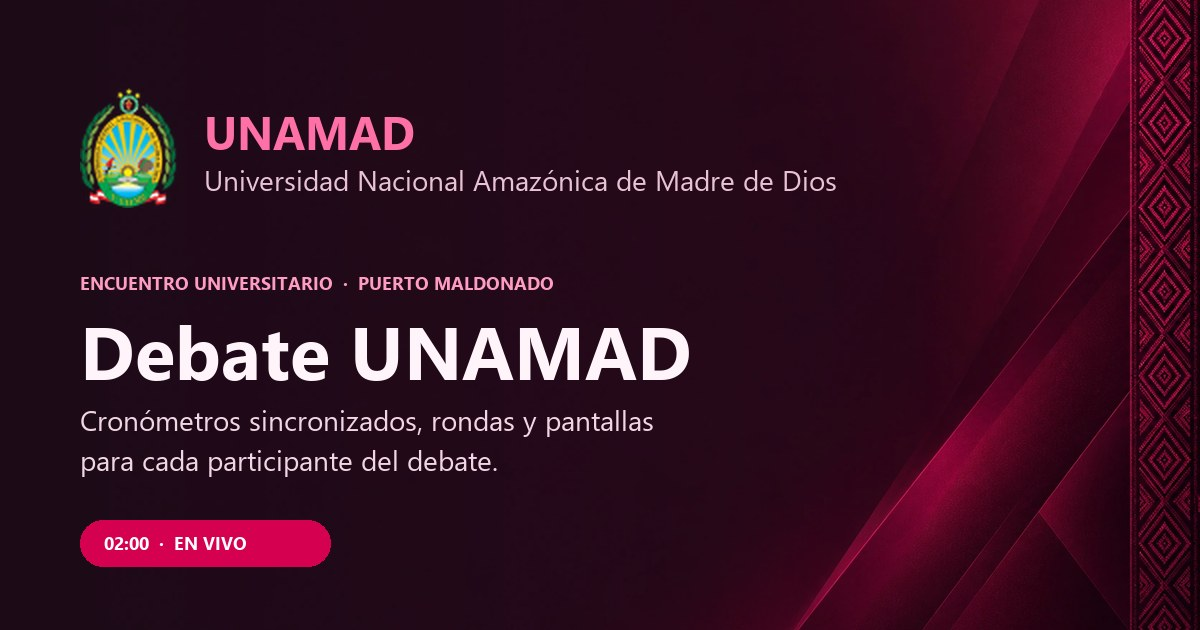
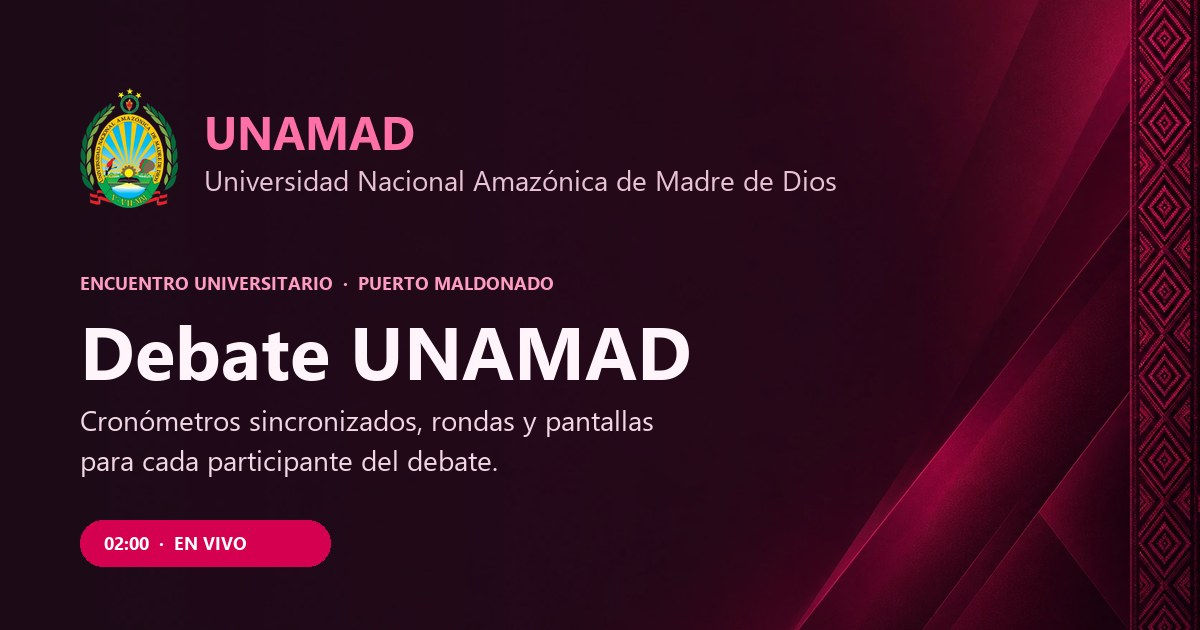
Escudo de la UNAMAD en alta resolución
- Nuevo logo_unamad.png (500 px) recortado y optimizado como logo-unamad.webp (74 KB).
- Se usa en los fondos de espera (más grande), tótems, panel, vista general,
  pantalla del público e imagen para compartir.

Changed region(s): [[0.0617, 0.1508, 0.1542, 0.3317]]

diff --git a/public/app.js b/public/app.js
@@ -751,7 +751,7 @@ function renderRounds() {
 }
 function renderPanel() {
   $("app").innerHTML =
-    `<header><div class="brand"><div class="official-logo-plate"><img src="assets/unamad-logo-oficial.png" alt="UNAMAD · Universidad Nacional Amazónica de Madre de Dios" width="262" height="70"></div><div class="brand-separator"></div><div class="brand-program">DEBATE UNAMAD<span>CENTRAL DE MODERACIÓN</span></div></div><div class="header-right"><div class="pill"><span class="dot"></span> Panel del moderador</div><span class="header-clock" id="clock"></span><button class="panel-theme" id="panel-theme" title="Cambiar apariencia del panel">☾ Oscuro</button><button class="header-help" id="help-top">ⓘ &nbsp; Cómo conectar</button></div></header><main><div id="owner-warning" class="owner-warning" hidden><span id="owner-warning-text"></span><button id="take-control" class="secondary">Reintentar</button></div><section class="institutional-hero"><div class="institutional-hero-copy"><span class="hero-eyebrow"><i></i> ENCUENTRO UNIVERSITARIO</span><h1 id="event-title"></h1><p>Ideas para el futuro de nuestra universidad.</p><div class="hero-tags"><span id="hero-count"></span><span id="hero-mode"></span></div></div><div class="institutional-hero-visual"><div class="hero-identity"><img class="hero-crest" src="assets/unamad-escudo-oficial.png" alt="Escudo de la UNAMAD"><div class="hero-wordmark">UNAMAD<span>Universidad Nacional Amazónica<br>de Madre de Dios</span></div></div><div class="hero-identity-line"></div><span class="hero-location">PUERTO MALDONADO · MADRE DE DIOS</span></div></section><div class="workspace-heading"><div><span class="eyebrow">DIRECCIÓN DEL DEBATE</span><h2>Panel de moderación</h2></div><button class="secondary" id="settings-btn"><span aria-hidden="true">⚙</span> Configurar debate</button></div><div class="cloud-tools"><span class="cloud-state" id="cloud-status">Conectado al debate</span><button class="secondary" id="open-report">Informe de tiempos</button><button class="secondary" id="open-standby">Fondo de espera</button><button class="secondary" id="share-links">Enlaces de tótems</button><button class="secondary" id="logout">Cerrar sesión</button></div><section class="stage-bar" id="stage-bar" hidden aria-label="Pantalla única"><div class="stage-now"><span class="eyebrow">EN PANTALLA</span><strong id="stage-name"></strong><span id="stage-status"></span></div><div class="stage-time" id="stage-time"></div><div class="stage-actions"><button class="primary stage-play" id="stage-play">▶ &nbsp; Iniciar</button><button class="secondary" id="stage-next" title="Presenta e inicia al siguiente candidato (tecla →)">Siguiente &nbsp;⏭</button></div><div class="stage-pick"><span class="toolbar-label">Presentar</span><div class="stage-chips" id="stage-chips"></div><span class="stage-screens" id="stage-screens"></span></div></section><section class="round-bar" aria-label="Rondas del debate"><span class="toolbar-label">Ronda</span><div class="round-chips" id="round-chips"></div><div class="round-actions"><button class="secondary" id="next-round">Siguiente ronda &nbsp;→</button><button class="subtle" id="edit-rounds">Editar rondas</button></div></section><section class="toolbar" aria-label="Controles generales"><div class="toolbar-group"><span class="toolbar-label">Tiempo por intervención</span><div class="presets"><button class="preset" data-preset="60">1 min</button><button class="preset" data-preset="120">2 min</button><button class="preset" data-preset="180">3 min</button><button class="preset" id="custom-time">Personalizar</button></div><span class="divider"></span><label class="sound-label"><input id="sound" type="checkbox"> Aviso sonoro</label></div><div class="toolbar-group"><button class="primary" id="next-speaker" title="Pausa el turno actual e inicia el siguiente (tecla →)">Siguiente orador &nbsp;⏭</button><button class="secondary" id="pause-all">Ⅱ &nbsp; Pausar todos</button><button class="subtle" id="reset-all" title="Reiniciar todos los cronómetros">↺ &nbsp; Reiniciar</button></div></section><div class="status-line"><strong>Participantes <span class="muted-count" id="participant-count"></span></strong><span id="live-status">● &nbsp; Listos para comenzar</span></div><section class="cards" id="cards" aria-label="Cronómetros de los candidatos"></section><section class="bottom-row"><div class="guide-card"><div class="guide-symbol" aria-hidden="true">▣</div><div><h3>Identidad UNAMAD en cada tótem</h3><p>Añade la foto o el flyer de cada candidato y revisa su pantalla antes de proyectar. Para el proyector, usa la vista general.</p><button class="text-btn" id="help-bottom">Ver guía de conexión &nbsp; →</button></div></div><div class="shortcuts"><h3>El control, al alcance de tu teclado</h3><div class="shortcut-row"><span><kbd>1</kbd>…<kbd>8</kbd> Iniciar / pausar candidato</span><span><kbd>Espacio</kbd> Pausar / continuar</span><span><kbd>→</kbd> Siguiente orador</span></div></div></section><footer class="footer"><span><strong>● Un turno activo a la vez.</strong> Al cambiar de candidato, el anterior queda en pausa.</span><span id="footer-note">UNAMAD · Tótems en equipos independientes</span></footer></main>`;
+    `<header><div class="brand"><div class="official-logo-plate"><img src="assets/unamad-logo-oficial.png" alt="UNAMAD · Universidad Nacional Amazónica de Madre de Dios" width="262" height="70"></div><div class="brand-separator"></div><div class="brand-program">DEBATE UNAMAD<span>CENTRAL DE MODERACIÓN</span></div></div><div class="header-right"><div class="pill"><span class="dot"></span> Panel del moderador</div><span class="header-clock" id="clock"></span><button class="panel-theme" id="panel-theme" title="Cambiar apariencia del panel">☾ Oscuro</button><button class="header-help" id="help-top">ⓘ &nbsp; Cómo conectar</button></div></header><main><div id="owner-warning" class="owner-warning" hidden><span id="owner-warning-text"></span><button id="take-control" class="secondary">Reintentar</button></div><section class="institutional-hero"><div class="institutional-hero-copy"><span class="hero-eyebrow"><i></i> ENCUENTRO UNIVERSITARIO</span><h1 id="event-title"></h1><p>Ideas para el futuro de nuestra universidad.</p><div class="hero-tags"><span id="hero-count"></span><span id="hero-mode"></span></div></div><div class="institutional-hero-visual"><div class="hero-identity"><img class="hero-crest" src="assets/logo-unamad.webp" alt="Escudo de la UNAMAD"><div class="hero-wordmark">UNAMAD<span>Universidad Nacional Amazónica<br>de Madre de Dios</span></div></div><div class="hero-identity-line"></div><span class="hero-location">PUERTO MALDONADO · MADRE DE DIOS</span></div></section><div class="workspace-heading"><div><span class="eyebrow">DIRECCIÓN DEL DEBATE</span><h2>Panel de moderación</h2></div><button class="secondary" id="settings-btn"><span aria-hidden="true">⚙</span> Configurar debate</button></div><div class="cloud-tools"><span class="cloud-state" id="cloud-status">Conectado al debate</span><button class="secondary" id="open-report">Informe de tiempos</button><button class="secondary" id="open-standby">Fondo de espera</button><button class="secondary" id="share-links">Enlaces de tótems</button><button class="secondary" id="logout">Cerrar sesión</button></div><section class="stage-bar" id="stage-bar" hidden aria-label="Pantalla única"><div class="stage-now"><span class="eyebrow">EN PANTALLA</span><strong id="stage-name"></strong><span id="stage-status"></span></div><div class="stage-time" id="stage-time"></div><div class="stage-actions"><button class="primary stage-play" id="stage-play">▶ &nbsp; Iniciar</button><button class="secondary" id="stage-next" title="Presenta e inicia al siguiente candidato (tecla →)">Siguiente &nbsp;⏭</button></div><div class="stage-pick"><span class="toolbar-label">Presentar</span><div class="stage-chips" id="stage-chips"></div><span class="stage-screens" id="stage-screens"></span></div></section><section class="round-bar" aria-label="Rondas del debate"><span class="toolbar-label">Ronda</span><div class="round-chips" id="round-chips"></div><div class="round-actions"><button class="secondary" id="next-round">Siguiente ronda &nbsp;→</button><button class="subtle" id="edit-rounds">Editar rondas</button></div></section><section class="toolbar" aria-label="Controles generales"><div class="toolbar-group"><span class="toolbar-label">Tiempo por intervención</span><div class="presets"><button class="preset" data-preset="60">1 min</button><button class="preset" data-preset="120">2 min</button><button class="preset" data-preset="180">3 min</button><button class="preset" id="custom-time">Personalizar</button></div><span class="divider"></span><label class="sound-label"><input id="sound" type="checkbox"> Aviso sonoro</label></div><div class="toolbar-group"><button class="primary" id="next-speaker" title="Pausa el turno actual e inicia el siguiente (tecla →)">Siguiente orador &nbsp;⏭</button><button class="secondary" id="pause-all">Ⅱ &nbsp; Pausar todos</button><button class="subtle" id="reset-all" title="Reiniciar todos los cronómetros">↺ &nbsp; Reiniciar</button></div></section><div class="status-line"><strong>Participantes <span class="muted-count" id="participant-count"></span></strong><span id="live-status">● &nbsp; Listos para comenzar</span></div><section class="cards" id="cards" aria-label="Cronómetros de los candidatos"></section><section class="bottom-row"><div class="guide-card"><div class="guide-symbol" aria-hidden="true">▣</div><div><h3>Identidad UNAMAD en cada tótem</h3><p>Añade la foto o el flyer de cada candidato y revisa su pantalla antes de proyectar. Para el proyector, usa la vista general.</p><button class="text-btn" id="help-bottom">Ver guía de conexión &nbsp; →</button></div></div><div class="shortcuts"><h3>El control, al alcance de tu teclado</h3><div class="shortcut-row"><span><kbd>1</kbd>…<kbd>8</kbd> Iniciar / pausar candidato</span><span><kbd>Espacio</kbd> Pausar / continuar</span><span><kbd>→</kbd> Siguiente orador</span></div></div></section><footer class="footer"><span><strong>● Un turno activo a la vez.</strong> Al cambiar de candidato, el anterior queda en pausa.</span><span id="footer-note">UNAMAD · Tótems en equipos independientes</span></footer></main>`;
   $("share-links").onclick = showLinks;
   $("open-report").onclick = openReport;
   $("open-standby").onclick = openStandby;
@@ -846,7 +846,7 @@ function renderDisplay() {
   }
   document.title = "Tótem " + displayId + " — Debate UNAMAD";
   $("app").innerHTML =
-    `<section class="signage-screen" id="projection">${Totem.stageHTML()}<div class="standby-screen" id="standby" hidden><img class="standby-image" id="standby-image" alt="" hidden><div class="standby-default"><img class="standby-crest" src="assets/unamad-escudo-oficial.png" alt="Escudo de la UNAMAD"></div></div><div class="unassigned-note" id="unassigned" hidden><img src="assets/unamad-escudo-oficial.png" alt=""><strong>Tótem ${displayId}</strong><span>Sin candidato asignado</span><small>El moderador puede agregarlo en «Configurar debate».</small></div>${screenTools}</section>`;
+    `<section class="signage-screen" id="projection">${Totem.stageHTML()}<div class="standby-screen" id="standby" hidden><img class="standby-image" id="standby-image" alt="" hidden><div class="standby-default"><img class="standby-crest" src="assets/logo-unamad.webp" alt="Escudo de la UNAMAD"></div></div><div class="unassigned-note" id="unassigned" hidden><img src="assets/logo-unamad.webp" alt=""><strong>Tótem ${displayId}</strong><span>Sin candidato asignado</span><small>El moderador puede agregarlo en «Configurar debate».</small></div>${screenTools}</section>`;
   setupScreen($("projection"));
 }
 function renderOverview() {
@@ -856,24 +856,24 @@ function renderOverview() {
       el.classList.add("overview-transparent");
   document.title = "Vista general — Debate UNAMAD";
   $("app").innerHTML =
-    `<section class="overview-screen" id="overview"><div class="overview-head"><div class="overview-brand"><img src="assets/unamad-escudo-oficial.png" alt="Escudo de la UNAMAD"><div><strong id="ov-event"></strong><span>Universidad Nacional Amazónica de Madre de Dios</span></div></div><div class="overview-round"><span>RONDA</span><strong id="ov-round"></strong></div></div><div class="overview-speaker" id="ov-speaker"><div class="ov-speaker-info"><span class="ov-kicker" id="ov-kicker"></span><h1 id="ov-name"></h1><p id="ov-role"></p></div><div class="ov-speaker-clock"><div class="ov-time" id="ov-time"></div><div class="ov-track"><div id="ov-progress"></div></div></div></div><div class="overview-grid" id="ov-grid"></div>${screenTools}</section>`;
+    `<section class="overview-screen" id="overview"><div class="overview-head"><div class="overview-brand"><img src="assets/logo-unamad.webp" alt="Escudo de la UNAMAD"><div><strong id="ov-event"></strong><span>Universidad Nacional Amazónica de Madre de Dios</span></div></div><div class="overview-round"><span>RONDA</span><strong id="ov-round"></strong></div></div><div class="overview-speaker" id="ov-speaker"><div class="ov-speaker-info"><span class="ov-kicker" id="ov-kicker"></span><h1 id="ov-name"></h1><p id="ov-role"></p></div><div class="ov-speaker-clock"><div class="ov-time" id="ov-time"></div><div class="ov-track"><div id="ov-progress"></div></div></div></div><div class="overview-grid" id="ov-grid"></div>${screenTools}</section>`;
   renderOverviewGrid();
   setupScreen($("overview"));
 }
 const brandHead = (prefix) =>
-  `<div class="overview-head"><div class="overview-brand"><img src="assets/unamad-escudo-oficial.png" alt="Escudo de la UNAMAD"><div><strong id="${prefix}-event"></strong><span>Universidad Nacional Amazónica de Madre de Dios</span></div></div><div class="overview-round"><span>RONDA</span><strong id="${prefix}-round"></strong></div></div>`;
+  `<div class="overview-head"><div class="overview-brand"><img src="assets/logo-unamad.webp" alt="Escudo de la UNAMAD"><div><strong id="${prefix}-event"></strong><span>Universidad Nacional Amazónica de Madre de Dios</span></div></div><div class="overview-round"><span>RONDA</span><strong id="${prefix}-round"></strong></div></div>`;
 function renderPublic() {
   document.body.classList.add("display-body", "overview-body");
   document.title = "Pantalla del público — Debate UNAMAD";
   $("app").innerHTML =
-    `<section class="public-screen" id="public">${brandHead("pub")}<div class="public-body" id="pub-body"><div class="public-photo" id="pub-photo"><img id="pub-image" alt="" hidden><div class="public-placeholder"><svg viewBox="0 0 160 190" fill="none" aria-hidden="true"><circle cx="80" cy="57" r="32" fill="currentColor"/><path d="M15 182v-17a65 65 0 0 1 130 0v17" fill="currentColor"/></svg></div></div><div class="public-info"><span class="public-label" id="pub-label"></span><h1 id="pub-name"></h1><p id="pub-role"></p><div class="public-clock"><span class="public-caption" id="pub-caption"></span><div class="public-time" id="pub-time"></div><div class="public-status"><i></i><span id="pub-status"></span></div><div class="ov-track"><div id="pub-progress"></div></div></div></div></div><div class="public-empty" id="pub-empty" hidden><img class="public-empty-crest" src="assets/unamad-escudo-oficial.png" alt="Escudo de la UNAMAD"></div><img class="public-standby-image" id="pub-standby-image" alt="" hidden>${screenTools}</section>`;
+    `<section class="public-screen" id="public">${brandHead("pub")}<div class="public-body" id="pub-body"><div class="public-photo" id="pub-photo"><img id="pub-image" alt="" hidden><div class="public-placeholder"><svg viewBox="0 0 160 190" fill="none" aria-hidden="true"><circle cx="80" cy="57" r="32" fill="currentColor"/><path d="M15 182v-17a65 65 0 0 1 130 0v17" fill="currentColor"/></svg></div></div><div class="public-info"><span class="public-label" id="pub-label"></span><h1 id="pub-name"></h1><p id="pub-role"></p><div class="public-clock"><span class="public-caption" id="pub-caption"></span><div class="public-time" id="pub-time"></div><div class="public-status"><i></i><span id="pub-status"></span></div><div class="ov-track"><div id="pub-progress"></div></div></div></div></div><div class="public-empty" id="pub-empty" hidden><img class="public-empty-crest" src="assets/logo-unamad.webp" alt="Escudo de la UNAMAD"></div><img class="public-standby-image" id="pub-standby-image" alt="" hidden>${screenTools}</section>`;
   setupScreen($("public"));
 }
 function renderSpeaker() {
   document.body.classList.add("display-body", "speaker-body");
   document.title = "Pantalla de los candidatos — Debate UNAMAD";
   $("app").innerHTML =
-    `<section class="speaker-screen" id="speaker"><div class="speaker-top"><span id="spk-round"></span><span id="spk-event"></span></div><div class="speaker-main"><h1 id="spk-name"></h1><div class="speaker-time" id="spk-time"></div><div class="speaker-status" id="spk-status"></div></div><div class="speaker-track"><div id="spk-progress"></div></div><div class="speaker-standby" id="spk-standby" hidden><img class="speaker-standby-crest" src="assets/unamad-escudo-oficial.png" alt="Escudo de la UNAMAD"><img class="speaker-standby-image" id="spk-standby-image" alt="" hidden></div>${screenTools}</section>`;
+    `<section class="speaker-screen" id="speaker"><div class="speaker-top"><span id="spk-round"></span><span id="spk-event"></span></div><div class="speaker-main"><h1 id="spk-name"></h1><div class="speaker-time" id="spk-time"></div><div class="speaker-status" id="spk-status"></div></div><div class="speaker-track"><div id="spk-progress"></div></div><div class="speaker-standby" id="spk-standby" hidden><img class="speaker-standby-crest" src="assets/logo-unamad.webp" alt="Escudo de la UNAMAD"><img class="speaker-standby-image" id="spk-standby-image" alt="" hidden></div>${screenTools}</section>`;
   setupScreen($("speaker"));
 }
 function paintPublic() {

diff --git a/public/totem.js b/public/totem.js
@@ -29,7 +29,7 @@
     };
   }
   const stageHTML = () =>
-    `<div class="totem-stage"><div class="totem-top"><div class="totem-university-banner"><img class="totem-crest" src="assets/unamad-escudo-oficial.png" alt="Escudo de la UNAMAD"><div class="totem-wordmark">UNAMAD<span>Universidad Nacional Amazónica<br>de Madre de Dios</span></div></div><div class="totem-event-ribbon"><span class="totem-event"></span></div></div><div class="totem-art"><div class="totem-pattern"></div><img class="totem-image" alt="" hidden><div class="totem-placeholder"><svg viewBox="0 0 160 190" fill="none" aria-hidden="true"><circle cx="80" cy="57" r="32" fill="currentColor"/><path d="M15 182v-17a65 65 0 0 1 130 0v17" fill="currentColor"/></svg><span>FOTO DEL CANDIDATO</span></div><div class="totem-art-edge"></div></div><div class="totem-identity"><div class="totem-label"></div><h2 class="totem-name"></h2><p class="totem-role"></p></div><div class="totem-clock-block"><div class="totem-time-caption">TIEMPO RESTANTE</div><div class="totem-time">02:00</div><div class="totem-state"><i></i><span>LISTO PARA INICIAR</span></div><div class="totem-track"><div></div></div></div><div class="totem-footer"><span>UNAMAD</span><span>DIÁLOGO · RESPETO · IDEAS</span></div></div>`;
+    `<div class="totem-stage"><div class="totem-top"><div class="totem-university-banner"><img class="totem-crest" src="assets/logo-unamad.webp" alt="Escudo de la UNAMAD"><div class="totem-wordmark">UNAMAD<span>Universidad Nacional Amazónica<br>de Madre de Dios</span></div></div><div class="totem-event-ribbon"><span class="totem-event"></span></div></div><div class="totem-art"><div class="totem-pattern"></div><img class="totem-image" alt="" hidden><div class="totem-placeholder"><svg viewBox="0 0 160 190" fill="none" aria-hidden="true"><circle cx="80" cy="57" r="32" fill="currentColor"/><path d="M15 182v-17a65 65 0 0 1 130 0v17" fill="currentColor"/></svg><span>FOTO DEL CANDIDATO</span></div><div class="totem-art-edge"></div></div><div class="totem-identity"><div class="totem-label"></div><h2 class="totem-name"></h2><p class="totem-role"></p></div><div class="totem-clock-block"><div class="totem-time-caption">TIEMPO RESTANTE</div><div class="totem-time">02:00</div><div class="totem-state"><i></i><span>LISTO PARA INICIAR</span></div><div class="totem-track"><div></div></div></div><div class="totem-footer"><span>UNAMAD</span><span>DIÁLOGO · RESPETO · IDEAS</span></div></div>`;
   const assetCache = new Map();
   async function putImage(file) {
     if (!["image/jpeg", "image/png", "image/webp"].includes(file.type))

diff --git a/public/debate.css b/public/debate.css
@@ -925,7 +925,7 @@
     #1b0a17;
 }
 .speaker-standby-crest {
-  height: 42vh;
+  height: 62vh;
   width: auto;
   filter: drop-shadow(0 2vh 6vh #0006);
 }
@@ -1100,7 +1100,7 @@
   padding: 10cqw 8cqw 16cqw;
 }
 .standby-crest {
-  width: 44cqw;
+  width: 62cqw;
   height: auto;
   filter: drop-shadow(0 2cqw 6cqw #0006);
 }
@@ -1180,7 +1180,7 @@
   visibility: hidden;
 }
 .public-empty .public-empty-crest {
-  height: 42vh;
+  height: 62vh;
   width: auto;
   filter: drop-shadow(0 2vh 6vh #0006);
 }
